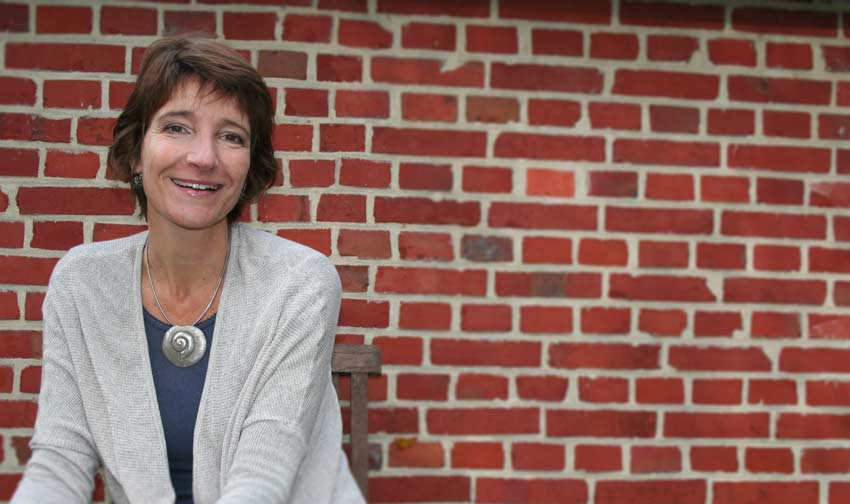
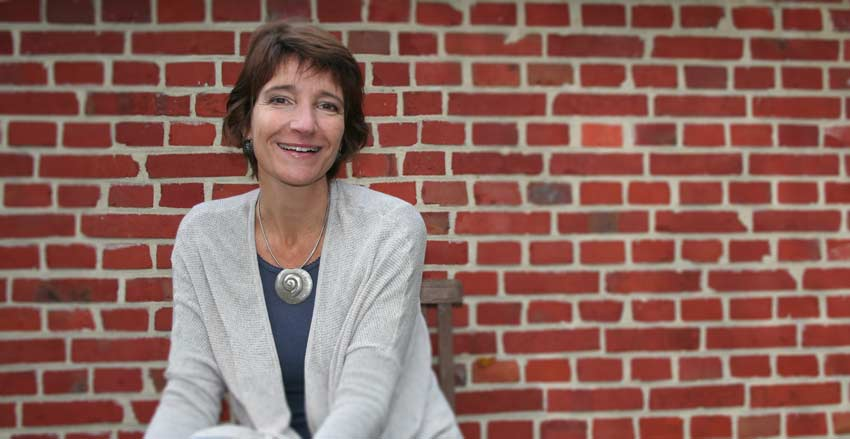
Adjust header images

diff --git a/_sass/main/_base.sass b/_sass/main/_base.sass
@@ -114,7 +114,7 @@ hr
     display: none
 
   .image-header
-    background-image: url("/images/header-image-wide.jpg")
+    background-image: url("/images/header-image-wide2.jpg")
     height: 600px
 
   #logo
